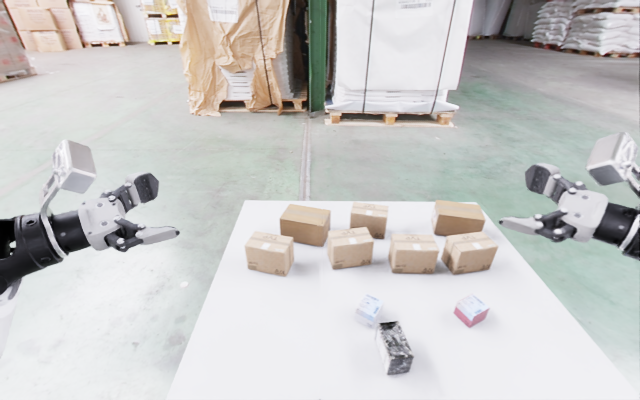
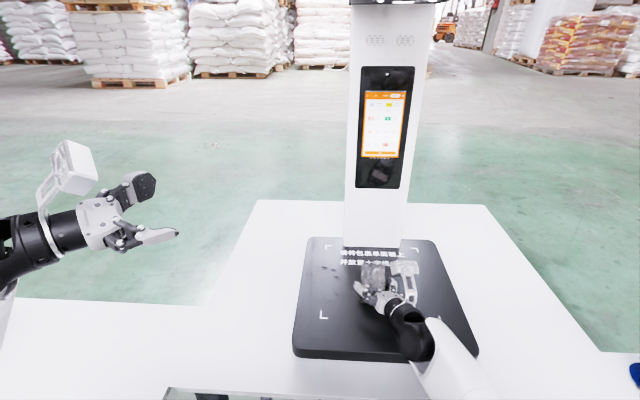
feat:final challenging

diff --git a/src/openpi/policies/sorting_phase_state_machine.py b/src/openpi/policies/sorting_phase_state_machine.py
@@ -146,14 +146,38 @@ class SortingPhaseClassifier:
 @dataclasses.dataclass
 class SortingContinuousPromptController:
     classifier: SortingPhaseClassifier
-    color_cycle: tuple[str, ...] = ("white", "red", "black", "yellow")
+    color_cycle: tuple[str, ...] = ("black", "red", "yellow")
     prompt_template: str = "Grab the <color> package on the table, turn the waist right to face the barcode scanner, place the package on the scanning table with the barcode facing up. Then, grab the package, rotate the waist and place the package in the blue bin. Finally, return the waist back to face the initial table"
     task_keywords: tuple[str, ...] = ("sorting_packages_continuous", "sort logistics parcels continuous")
+    white_stuck_timeout_steps: int = 30
+    forced_reset_anchor_color: str = "black"
+    forced_reset_detect_steps: int = 3
+    forced_reset_grace_steps: int = 20
+    forced_reset_grace_extra_steps: int = 2
+    forced_reset_streak_decay: int = 1
 
     _state: int = dataclasses.field(default=0, init=False)
     _color_index: int = dataclasses.field(default=0, init=False)
     current_prompt: str | None = dataclasses.field(default=None, init=False)
     is_initialized: bool = dataclasses.field(default=False, init=False)
+    _white_stuck_steps: int = dataclasses.field(default=0, init=False)
+    _already_reset_streak: int = dataclasses.field(default=0, init=False)
+    _forced_reset_grace_left: int = dataclasses.field(default=0, init=False)
+
+    def _anchor_color_index(self) -> int:
+        anchor = self.forced_reset_anchor_color.strip().lower()
+        if not anchor:
+            return 0
+        try:
+            return self.color_cycle.index(anchor)
+        except ValueError:
+            return 0
+
+    def _set_color_prompt_by_index(self, color_index: int) -> str:
+        self._color_index = color_index % len(self.color_cycle)
+        color = self.color_cycle[self._color_index]
+        self.current_prompt = self.prompt_template.replace("<color>", color)
+        return color
 
     @staticmethod
     def _default_model_path() -> str | None:
@@ -189,10 +213,10 @@ class SortingContinuousPromptController:
         device = os.getenv("SORTING_PHASE_DEVICE", "cuda" if torch.cuda.is_available() else "cpu")
         prompt_template = os.getenv("SORTING_CONTINUOUS_PROMPT_TEMPLATE", "Grab the <color> package on the table, turn the waist right to face the barcode scanner, place the package on the scanning table with the barcode facing up. Then, grab the package, rotate the waist and place the package in the blue bin. Finally, return the waist back to face the initial table")
 
-        raw_cycle = os.getenv("SORTING_COLOR_CYCLE", "black, yellow, red, white")
+        raw_cycle = os.getenv("SORTING_COLOR_CYCLE", "black, red, yellow")
         color_cycle = tuple([c.strip().lower() for c in raw_cycle.split(",") if c.strip()])
         if not color_cycle:
-            color_cycle = ("black", "yellow", "red", "white")
+            color_cycle = ("black", "red", "yellow")
 
         raw_keywords = os.getenv(
             "SORTING_CONTINUOUS_TASK_KEYWORDS",
@@ -200,11 +224,39 @@ class SortingContinuousPromptController:
         )
         task_keywords = tuple([k.strip().lower() for k in raw_keywords.split(",") if k.strip()])
 
+        white_stuck_timeout_steps = int(os.getenv("SORTING_WHITE_STUCK_TIMEOUT_STEPS", "30"))
+        if white_stuck_timeout_steps < 0:
+            white_stuck_timeout_steps = 0
+
+        forced_reset_anchor_color = os.getenv("SORTING_FORCED_RESET_ANCHOR_COLOR", "black").strip().lower()
+
+        forced_reset_detect_steps = int(os.getenv("SORTING_FORCED_RESET_DETECT_STEPS", "3"))
+        if forced_reset_detect_steps < 0:
+            forced_reset_detect_steps = 0
+
+        forced_reset_grace_steps = int(os.getenv("SORTING_FORCED_RESET_GRACE_STEPS", "20"))
+        if forced_reset_grace_steps < 0:
+            forced_reset_grace_steps = 0
+
+        forced_reset_grace_extra_steps = int(os.getenv("SORTING_FORCED_RESET_GRACE_EXTRA_STEPS", "2"))
+        if forced_reset_grace_extra_steps < 0:
+            forced_reset_grace_extra_steps = 0
+
+        forced_reset_streak_decay = int(os.getenv("SORTING_FORCED_RESET_STREAK_DECAY", "1"))
+        if forced_reset_streak_decay < 0:
+            forced_reset_streak_decay = 0
+
         classifier = SortingPhaseClassifier.from_checkpoint(model_path, device=device)
         LOGGER.info(
-            "Loaded sorting phase classifier from %s (interval=%s, colors=%s)",
+            "Loaded sorting phase classifier from %s (colors=%s, white_timeout_steps=%s, forced_reset_anchor=%s, forced_reset_detect_steps=%s, forced_reset_grace_steps=%s, forced_reset_grace_extra_steps=%s, forced_reset_streak_decay=%s)",
             model_path,
             color_cycle,
+            white_stuck_timeout_steps,
+            forced_reset_anchor_color,
+            forced_reset_detect_steps,
+            forced_reset_grace_steps,
+            forced_reset_grace_extra_steps,
+            forced_reset_streak_decay,
         )
 
         return cls(
@@ -212,6 +264,12 @@ class SortingContinuousPromptController:
             color_cycle=color_cycle,
             prompt_template=prompt_template,
             task_keywords=task_keywords,
+            white_stuck_timeout_steps=white_stuck_timeout_steps,
+            forced_reset_anchor_color=forced_reset_anchor_color,
+            forced_reset_detect_steps=forced_reset_detect_steps,
+            forced_reset_grace_steps=forced_reset_grace_steps,
+            forced_reset_grace_extra_steps=forced_reset_grace_extra_steps,
+            forced_reset_streak_decay=forced_reset_streak_decay,
         )
 
     def _is_continuous_task(self, task_name: str, prompt: str) -> bool:
@@ -239,7 +297,9 @@ class SortingContinuousPromptController:
 
         if not self._is_continuous_task(task_name, prompt):
             self._state = 0
-            self._frame_counter = 0
+            self._white_stuck_steps = 0
+            self._already_reset_streak = 0
+            self._forced_reset_grace_left = 0
             return None, None
         
         if not self.is_initialized:
@@ -253,17 +313,64 @@ class SortingContinuousPromptController:
 
         pred = self.classifier.predict(image)
 
+        if self._forced_reset_grace_left > 0:
+            self._forced_reset_grace_left -= 1
+
         if self._state == 0 and pred.label == "task_terminal":
             self._state = 1
+            self._white_stuck_steps = 0
+            self._already_reset_streak = 0
             print(f"Sorting phase prediction: label={pred.label} conf={pred.confidence:.4f}")
             LOGGER.info("Sorting prompt state transition: state0 -> state1 (terminal detected, conf=%.4f)", pred.confidence)
             return self.current_prompt, pred
 
+        if self._state == 0 and pred.label == "already_reset":
+            self._already_reset_streak += 1
+
+            anchor_index = self._anchor_color_index()
+            current_color = self.color_cycle[self._color_index].lower()
+            anchor_color = self.color_cycle[anchor_index]
+            required_streak = self.forced_reset_detect_steps
+            if self._forced_reset_grace_left > 0:
+                required_streak += self.forced_reset_grace_extra_steps
+            if (
+                self.forced_reset_detect_steps > 0
+                and current_color != anchor_color
+                and self._already_reset_streak >= required_streak
+            ):
+                self._state = 0
+                self._white_stuck_steps = 0
+                self._already_reset_streak = 0
+                self._forced_reset_grace_left = 0
+                reset_color = self._set_color_prompt_by_index(anchor_index)
+                LOGGER.warning(
+                    "Forced reset triggered by already_reset streak (required=%s), switching to anchor color=%s",
+                    required_streak,
+                    reset_color,
+                )
+                print("Forced reset triggered by already_reset prediction streak, switching to anchor color:", reset_color)
+                return self.current_prompt, pred
+        elif self._state == 0:
+            self._already_reset_streak = max(0, self._already_reset_streak - self.forced_reset_streak_decay)
+
+        if self._state == 0 and pred.label != "task_terminal":
+            current_color = self.color_cycle[self._color_index].lower()
+            if current_color == "white" and self.white_stuck_timeout_steps > 0:
+                self._white_stuck_steps += 1
+                if self._white_stuck_steps >= self.white_stuck_timeout_steps:
+                    self._white_stuck_steps = 0
+                    next_color = self._set_color_prompt_by_index(self._color_index + 1)
+                    print("white stuck timeout reached, switching to next color:", next_color)
+                    return self.current_prompt, pred
+            else:
+                self._white_stuck_steps = 0
+
         if self._state == 1 and pred.label == "already_reset":
             self._state = 0
-            self._color_index = (self._color_index + 1) % len(self.color_cycle)
-            color = self.color_cycle[self._color_index]
-            self.current_prompt = self.prompt_template.replace("<color>", color)
+            self._white_stuck_steps = 0
+            self._already_reset_streak = 0
+            self._forced_reset_grace_left = self.forced_reset_grace_steps
+            color = self._set_color_prompt_by_index(self._color_index + 1)
             print(f"Sorting phase prediction: label={pred.label} conf={pred.confidence:.4f}")
             LOGGER.info(
                 "Sorting prompt state transition: state1 -> state0 (reset detected, conf=%.4f), next color=%s",

diff --git a/src/openpi/serving/websocket_policy_server.py b/src/openpi/serving/websocket_policy_server.py
@@ -3,7 +3,6 @@ import http
 import logging
 import time
 import traceback
-import numpy as np
 
 from openpi_client import base_policy as _base_policy
 from openpi_client import msgpack_numpy
@@ -25,60 +24,12 @@ class WebsocketPolicyServer:
         host: str = "0.0.0.0",
         port: int | None = None,
         metadata: dict | None = None,
-        execute_k: int = 15,
-        overlap_new_weight: float = 0.75,
-        use_vp_noise: bool = True,
-        noise_beta: float = 0.5,
     ) -> None:
         self._policy = policy
         self._host = host
         self._port = port
         self._metadata = metadata or {}
-        self._execute_k = execute_k
-        self._overlap_new_weight = overlap_new_weight
-        self._use_vp_noise = use_vp_noise
-        self._noise_beta = noise_beta
-        self._noise_sigma = float(np.sqrt(max(0.0, 1.0 - noise_beta**2)))
-        self._action_buffer: list[np.ndarray] = []
-        self._overlap_buffer: np.ndarray | None = None
-        self._prev_noise: np.ndarray | None = None
-        self._last_episode_index: int | None = None
         logging.getLogger("websockets.server").setLevel(logging.INFO)
-
-    def _reset_temporal_state(self) -> None:
-        self._action_buffer = []
-        self._overlap_buffer = None
-        self._prev_noise = None
-
-    def _should_reset_from_obs(self, obs: dict) -> bool:
-        # Common reset flags used by env wrappers.
-        for key in ("reset", "is_first", "new_episode", "episode_start"):
-            if bool(obs.get(key, False)):
-                return True
-
-        # If frame index is explicitly provided, treat frame 0 as a fresh episode.
-        frame_index = obs.get("frame_index")
-        if frame_index is not None:
-            try:
-                if int(frame_index) == 0:
-                    return True
-            except (TypeError, ValueError):
-                pass
-
-        # Reset when episode id changes.
-        episode_index = obs.get("episode_index")
-        if episode_index is not None:
-            try:
-                epi = int(episode_index)
-                if self._last_episode_index is None:
-                    self._last_episode_index = epi
-                elif epi != self._last_episode_index:
-                    self._last_episode_index = epi
-                    return True
-            except (TypeError, ValueError):
-                pass
-
-        return False
 
     def serve_forever(self) -> None:
         asyncio.run(self.run())
@@ -96,14 +47,6 @@ class WebsocketPolicyServer:
 
     async def _handler(self, websocket: _server.ServerConnection):
         logger.info(f"Connection from {websocket.remote_address} opened")
-
-        # Reset per-connection temporal state.
-        self._reset_temporal_state()
-        self._last_episode_index = None
-        # Some policies post-process action dims (e.g., trim waist DOF), which can make
-        # warm-start VP noise shape-incompatible with model-side expected noise.
-        vp_noise_enabled = self._use_vp_noise
-        
         packer = msgpack_numpy.Packer()
 
         await websocket.send(packer.pack(self._metadata))
@@ -114,69 +57,9 @@ class WebsocketPolicyServer:
                 start_time = time.monotonic()
                 obs = msgpack_numpy.unpackb(await websocket.recv())
 
-                if isinstance(obs, dict) and self._should_reset_from_obs(obs):
-                    self._reset_temporal_state()
-                    # Keep routing / policy state clean if policy exposes a reset hook.
-                    if hasattr(self._policy, "reset") and callable(getattr(self._policy, "reset")):
-                        self._policy.reset()
-
-                infer_time = 0.0
-                if not self._action_buffer:
-                    infer_start = time.monotonic()
-                    if vp_noise_enabled and self._prev_noise is not None:
-                        try:
-                            infer_result = self._policy.infer(obs, noise=self._prev_noise)
-                        except TypeError:
-                            infer_result = self._policy.infer(obs)
-                        except ValueError as exc:
-                            if "noise shape mismatch" in str(exc):
-                                logger.warning("Disabling VP noise for this connection: %s", exc)
-                                self._prev_noise = None
-                                vp_noise_enabled = False
-                                infer_result = self._policy.infer(obs)
-                            else:
-                                raise
-                    else:
-                        infer_result = self._policy.infer(obs)
-                    infer_time = time.monotonic() - infer_start
-
-                    action_chunk = infer_result.get("actions", infer_result.get("action"))
-                    if action_chunk is None:
-                        raise ValueError("Policy output must include 'actions' or 'action'.")
-
-                    chunk_arr = np.asarray(action_chunk)
-                    if chunk_arr.ndim == 1:
-                        chunk_arr = chunk_arr[None, :]
-
-                    if vp_noise_enabled:
-                        # Generate warm-start noise in float32; model side will cast to runtime dtype.
-                        eps = np.random.randn(*chunk_arr.shape).astype(np.float32)
-                        if self._prev_noise is None or self._prev_noise.shape != chunk_arr.shape:
-                            self._prev_noise = eps
-                        else:
-                            self._prev_noise = (
-                                self._noise_beta * self._prev_noise
-                                + self._noise_sigma * eps
-                            )
-
-                    if self._overlap_buffer is not None and len(self._overlap_buffer) > 0:
-                        overlap_len = min(len(self._overlap_buffer), len(chunk_arr))
-                        old_weight = 1.0 - self._overlap_new_weight
-                        chunk_arr[:overlap_len] = (
-                            old_weight * self._overlap_buffer[:overlap_len]
-                            + self._overlap_new_weight * chunk_arr[:overlap_len]
-                        )
-
-                    k = max(1, min(self._execute_k, len(chunk_arr)))
-                    self._action_buffer = [chunk_arr[i] for i in range(k)]
-                    self._overlap_buffer = chunk_arr[k:] if k < len(chunk_arr) else None
-
-                # PiPolicy / genie_sim expect `actions` to be a sequence of per-step vectors
-                # (deque iterates the outer sequence). A single 1D ndarray would iterate as
-                # per-dimension scalars — wrap as a one-element list.
-                step = np.asarray(self._action_buffer.pop(0))
-                action = {"actions": [step]}
-
+                infer_time = time.monotonic()
+                action = self._policy.infer(obs)
+                infer_time = time.monotonic() - infer_time
 
                 action["server_timing"] = {
                     "infer_ms": infer_time * 1000,

diff --git a/src/openpi/policies/policy.py b/src/openpi/policies/policy.py
@@ -67,6 +67,40 @@ class Policy(BasePolicy):
                 inputs["prompt"] = updated_prompt
                 logging.info("Updated sorting continuous prompt to: %s", updated_prompt)
 
+        # There are other tasks that requires prompt mapping, we need to add them here
+
+        prompt_mapping = {
+            "pour_workpiece": "Pour the workpiece into the box",
+            "open_door": "Turn the doorknob and push the door",
+            "scoop_popcorn": "Scoop the popcorn and pour it into the popcorn bucket",
+            "hold_pot": "Grasp the two handles of the pot and place it on the stove",
+            "place_block_into_box": (
+                "Left arm pick up the yellow circular block from the table and "
+                "place it into the round hole of the block box"
+            ),
+            "take_wrong_item_shelf": (
+                "Right arm picks up the incorrectly placed item from the shelf "
+                "and place it into the shopping basket"
+            ),
+            "stock_and_straighten_shelf": (
+                "Right arm pick up the wei-chuan orange juice in the shopping basket "
+                "and place it on the shelf, Then, right arm straighten the toppled "
+                "wei-chuan grape juice"
+            ),
+            "clean_the_desktop": (
+                "Pick up the pen on the left side and place it into the pen holder, "
+                "close the laptop, pick up the tissue on the table and place it into "
+                "the trash bin on the right size. Then, pick up the mouse and place "
+                "it on the right side of the laptop. Finally, straighten the colored "
+                "pencil box"
+            ),
+        }
+
+        task_name = str(inputs.get("task_name", "")).strip()
+        if task_name in prompt_mapping:
+            new_prompt = prompt_mapping[task_name]
+            inputs["prompt"] = new_prompt
+
         # Debug: save top_head to PNG. PIL needs (H,W) or (H,W,C) with C in {1,3,4}.
         img = inputs["images"]["top_head"]
         img_np = np.asarray(img)

diff --git a/scripts/serve_policy.py b/scripts/serve_policy.py
@@ -97,7 +97,7 @@ DEFAULT_CHECKPOINT: dict[EnvMode, Checkpoint] = {
     ),
     EnvMode.G2SIM: Checkpoint(
         config="acot_icra_simulation_challenge_reasoning_to_action",
-        dir="/mnt/sdc/xhz/ACoT-VLA/checkpoints/final/40000",
+        dir="/mnt/sdc/xhz/ACoT-VLA/checkpoints/final/49999",
     )
 }
 
